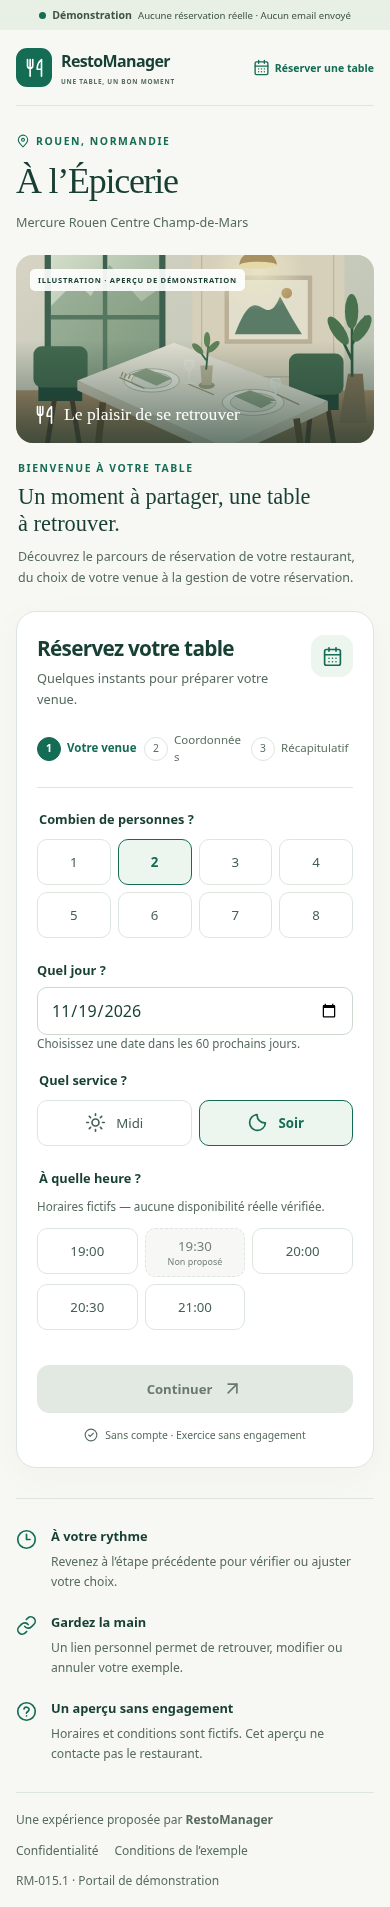
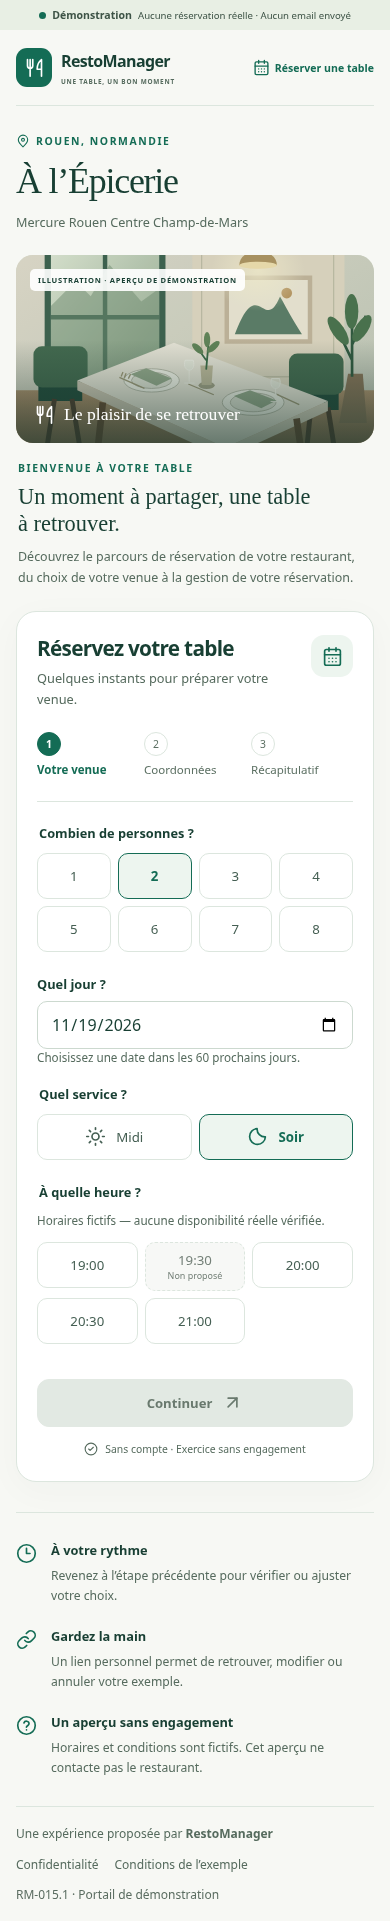
fix(rm015): polish narrow step labels and stabilize visual regression checks

diff --git a/reservation/portal.css b/reservation/portal.css
@@ -1,5 +1,5 @@
 :root{color-scheme:light;--ink:#183f33;--muted:#566b5e;--green:#146c55;--tint:#edf5ef;--line:#dce6de;--paper:#fff;--bg:#f7f8f4;--error:#a32c28;font-family:system-ui,-apple-system,BlinkMacSystemFont,"Segoe UI",sans-serif;color:var(--ink);background:var(--bg);font-synthesis:none}
-*{box-sizing:border-box}body{margin:0}button,input,textarea{font:inherit}button,a,input,textarea{touch-action:manipulation}button{cursor:pointer}button:disabled{cursor:default}button,a,input,textarea{outline-offset:4px}button:focus-visible,a:focus-visible,input:focus-visible,textarea:focus-visible{outline:3px solid #267d62}a{color:var(--green)}svg{width:21px;height:21px;flex:none;vertical-align:middle}h1,h2,h3,p{margin:0}p{line-height:1.65}button{border:0}button svg{pointer-events:none}a,button,p,h1,h2,h3,dd{overflow-wrap:anywhere}button,a{ -webkit-tap-highlight-color:transparent}small{font-size:.8rem}.wrap{width:min(1192px,calc(100% - 64px));margin-inline:auto}.sr-only{position:absolute;width:1px;height:1px;padding:0;margin:-1px;overflow:hidden;clip-path:inset(50%);white-space:nowrap}.skip{position:fixed;z-index:20;top:8px;left:12px;padding:14px;background:#fff;transform:translateY(-160%)}.skip:focus{transform:none}.demo-banner{padding:9px 20px;background:#e8efe4;color:#3d5346;display:flex;justify-content:center;align-items:center;gap:10px;font-size:.75rem;flex-wrap:wrap}.demo-dot{width:7px;height:7px;border-radius:50%;background:var(--green)}.demo-banner strong{font-weight:750}.site-header{min-height:100px;display:flex;align-items:center;justify-content:space-between;gap:20px;border-bottom:1px solid var(--line)}.brand{min-width:0;display:flex;gap:12px;align-items:center;font-size:1.15rem;font-weight:780;text-decoration:none;color:var(--ink);letter-spacing:-.04em}.brand small{display:block;letter-spacing:.14em;font-size:.5rem;margin-top:5px;font-weight:650;color:var(--muted)}.brand-mark{display:grid;place-items:center;width:43px;height:45px;border-radius:13px;background:var(--green);color:white}.header-action{min-width:0;font-size:.8rem;text-decoration:none;font-weight:650;display:flex;align-items:center;gap:9px;min-height:44px}.restaurant-intro{padding:42px 0 30px}.eyebrow{display:flex;align-items:center;gap:6px;font-size:.65rem;letter-spacing:.15em;font-weight:750;color:var(--green);text-transform:uppercase}.eyebrow svg{width:14px;height:14px}h1{font-family:Georgia,"Times New Roman",serif;font-size:clamp(2rem,4vw,3.3rem);letter-spacing:-.035em;font-weight:500;line-height:1.14;margin-top:13px}.restaurant-subtitle{font-size:.92rem;color:var(--muted);margin-top:10px}.portal-layout{display:grid;grid-template-columns:minmax(0,1.2fr) minmax(0,1fr);align-items:start;gap:42px}.cover{position:relative;border-radius:22px;overflow:hidden;background:#d8decf;isolation:isolate}.cover img{display:block;width:100%;height:auto;aspect-ratio:1.65;object-fit:cover}.cover:after{content:"";position:absolute;inset:45% 0 0;background:linear-gradient(transparent,#17362c99);z-index:0}.cover-label{position:absolute;bottom:23px;left:26px;color:#fff;display:flex;gap:9px;align-items:center;font-family:Georgia,serif;font-size:1.22rem;z-index:1}.cover-caption{position:absolute;top:14px;left:14px;font-size:.47rem;letter-spacing:.1em;font-weight:650;background:#ffffffe8;padding:6px 8px;border-radius:5px}.story-text{padding:27px 3px 0}.story-text h2{font:500 1.75rem/1.2 Georgia,serif;max-width:420px;margin:12px 0}.story-text p{font-size:.86rem;color:var(--muted);max-width:490px}.story-features{display:flex;gap:23px;margin:22px 0;font-size:.71rem;flex-wrap:wrap;color:#4d6759}.story-features span{display:flex;align-items:center;gap:8px}.story-features svg{width:17px;height:17px}.reassurance{display:flex;gap:13px;background:#ecf1e9;border-radius:16px;padding:18px;margin-top:8px}.soft-icon{border-radius:12px;display:grid;place-items:center;background:#dceade;width:40px;height:40px;flex:none}.reassurance strong{font-size:.8rem}.reassurance p{font-size:.76rem;color:var(--muted);margin-top:4px}.booking-card{border-radius:24px;background:var(--paper);border:1px solid var(--line);box-shadow:0 8px 36px #24443508;padding:30px;scroll-margin-top:20px;min-width:0}.booking-head{display:flex;justify-content:space-between;gap:12px;align-items:flex-start}.booking-head h2{font-size:1.35rem;letter-spacing:-.035em;font-weight:760;line-height:1.25}.booking-head p{color:var(--muted);font-size:.8rem;margin-top:7px}.booking-symbol{width:42px;height:42px;display:grid;place-items:center;background:var(--tint);color:var(--green);border-radius:13px;flex:none}.steps{display:flex;list-style:none;padding:0 0 22px;margin:25px 0 22px;border-bottom:1px solid var(--line);gap:8px;counter-reset:steps}.steps li{overflow-wrap:anywhere;flex:1;display:flex;gap:6px;align-items:center;color:#5c7063;font-size:.75rem;line-height:1.4;min-width:0}.steps li:before{counter-increment:steps;content:counter(steps);display:grid;place-items:center;border:1px solid var(--line);border-radius:50%;width:24px;height:24px;flex:none;font-size:.65rem}.steps [aria-current=step]{color:var(--green);font-weight:750}.steps [aria-current=step]:before{background:var(--green);border-color:var(--green);color:white}.steps .done:before{background:var(--tint);border-color:var(--tint);color:var(--green)}fieldset{border:0;padding:0;margin:0 0 23px;min-width:0}legend,.field-label{font-size:.8rem;font-weight:720;display:block;margin-bottom:11px}.label-line{display:flex;justify-content:space-between;gap:10px;align-items:baseline}.optional,.hint{color:var(--muted);font-size:.73rem;font-weight:400;line-height:1.55}.choice-row{display:grid;gap:7px;grid-template-columns:repeat(4,minmax(0,1fr))}.choice{position:relative;min-width:0}.choice input{position:absolute;width:1px;height:1px;opacity:0}.choice label{min-height:45px;border:1px solid var(--line);border-radius:10px;display:flex;justify-content:center;align-items:center;text-align:center;padding:9px 5px;font-size:.83rem;color:#455f53;cursor:pointer;gap:6px}.choice input:checked+label{background:var(--tint);border:1.5px solid var(--green);color:var(--green);font-weight:750}.choice input:focus-visible+label{outline:3px solid #267d62;outline-offset:3px}.choice input:disabled+label{background:#f7f8f6;color:#748078;cursor:default;border-style:dashed}.choice label small{font-size:.56rem;display:block}.service-row{grid-template-columns:repeat(2,minmax(0,1fr))}.service-row label{gap:10px;min-height:47px}.slots{grid-template-columns:repeat(3,minmax(0,1fr));margin:12px 0}.slots label{flex-direction:column;gap:0;padding:8px 4px}.date-field,input[type=text],input[type=email],input[type=tel],textarea{width:100%;min-width:0;border:1px solid #ccd9cf;border-radius:10px;min-height:46px;padding:11px 13px;background:#fff;color:var(--ink);font-size:1rem}input[type=date]{appearance:none;display:block}.field{margin:0 0 18px}.field .field-label{margin-bottom:8px}.field input[aria-invalid=true],.field textarea[aria-invalid=true]{border-color:var(--error)}textarea{resize:vertical;min-height:100px}.field-grid{display:grid;grid-template-columns:1fr 1fr;gap:13px}.form-note{font-size:.76rem;line-height:1.6;padding:14px;background:#f3f6ef;border-radius:11px;margin:20px 0;color:#51654e}.form-note svg{width:17px;height:17px;margin-right:6px}.primary,.secondary,.danger{display:flex;align-items:center;justify-content:center;gap:10px;min-height:48px;border-radius:12px;padding:12px 17px;font-size:.83rem;font-weight:730;text-decoration:none;width:100%}.primary{background:var(--green);color:#fff;border:1px solid var(--green)}.primary:hover{background:#0f5946}.primary:disabled{background:#e2e9e3;border-color:#e2e9e3;color:#69796e}.secondary{background:#fff;color:var(--green);border:1px solid var(--line)}.secondary:hover{background:var(--tint)}.danger{background:#fff7f4;color:var(--error);border:1px solid #e7c6bc}.text-button{color:var(--green);font-size:.76rem;font-weight:650;padding:8px 0;background:transparent;min-height:44px;text-decoration:underline;text-underline-offset:4px}.back{display:flex;align-items:center;gap:7px;text-decoration:none;margin-bottom:14px}.back svg{width:16px;height:16px}.button-stack{display:grid;gap:10px;margin-top:22px}.booking-foot{display:flex;align-items:center;justify-content:center;gap:7px;color:var(--muted);font-size:.65rem;margin-top:14px;text-align:center}.booking-foot svg{width:14px;height:14px}.empty{background:#f4f6ef;padding:18px;border-radius:12px;font-size:.8rem;color:#50644e;line-height:1.6;margin:13px 0}.summary{margin:20px 0;background:#f5f8f3;border-radius:14px;padding:17px}.summary dt{font-size:.68rem;color:var(--muted);margin-bottom:4px}.summary dd{margin:0;font-size:.88rem;font-weight:650;line-height:1.55;white-space:pre-wrap}.summary>div+div{margin-top:13px;padding-top:13px;border-top:1px solid var(--line)}.summary-row{display:block}.summary-row dt{display:flex;align-items:center;gap:8px}.summary-row dd{margin-left:26px}.summary-row svg{color:var(--green);width:18px;height:18px}.summary-email{font-weight:400;font-size:.76rem}.check{display:flex;gap:10px;align-items:flex-start;font-size:.75rem;line-height:1.6;margin:10px 0}.check input{width:19px;height:19px;flex:none;accent-color:var(--green);margin-top:3px}.check a{display:inline}.error{color:var(--error);font-size:.75rem;line-height:1.5;margin-top:6px}.error-box{padding:12px 15px;border-radius:10px;background:#fff2ee;margin:14px 0;color:var(--error);font-size:.8rem}.success-icon{display:grid;place-items:center;width:64px;height:64px;background:#e7f3e9;color:var(--green);border-radius:50%;margin-bottom:18px}.success-icon svg{width:33px;height:33px}.reference{font-size:.72rem;letter-spacing:.07em;color:var(--muted);margin:12px 0}.status-badge{display:inline-block;background:var(--tint);color:var(--green);font-size:.66rem;padding:6px 10px;border-radius:7px;font-weight:750;margin-bottom:14px}.cancelled{background:#fff1e9;color:var(--error)}.compact-story .restaurant-story{display:none}.compact-story.portal-layout{grid-template-columns:minmax(0,640px);justify-content:center}.compact-story .booking-card{padding:35px}.compact-story+.practical{display:none}.practical{display:grid;grid-template-columns:repeat(3,minmax(0,1fr));gap:45px;padding:38px 0;border-block:1px solid var(--line);margin-top:50px}.practical svg{color:var(--green);width:21px;height:21px;margin-bottom:13px}.practical h2{font-size:.8rem;margin-bottom:7px}.practical p{font-size:.76rem;color:var(--muted)}.site-footer{padding-block:28px;display:flex;align-items:center;flex-wrap:wrap;gap:8px 20px;font-size:.75rem;color:var(--muted)}.site-footer>div{display:flex;gap:16px;margin-left:auto}.site-footer button{background:transparent;color:var(--muted);font-size:.75rem;padding:10px 0;min-height:44px}.site-footer small{font-size:.75rem;flex-basis:100%;color:#5b6d61}.icon-button{width:44px;height:44px;display:grid;place-items:center;flex:none;background:var(--tint);border-radius:12px;color:var(--ink)}dialog{width:min(520px,calc(100% - 32px));max-height:calc(100dvh - 40px);border:1px solid var(--line);border-radius:22px;padding:25px;color:var(--ink);box-shadow:0 15px 70px #143c3340;overflow:auto}dialog::backdrop{background:#163b325c}.dialog-head{display:flex;align-items:center;gap:15px;justify-content:space-between;margin-bottom:18px}.dialog-head h2{font-size:1.15rem}dialog p{font-size:.85rem;color:var(--muted);margin:12px 0}dialog .primary{margin-top:20px}.noscript{background:#fff2ee;color:var(--error);padding:25px;text-align:center}
+*{box-sizing:border-box}body{margin:0}button,input,textarea{font:inherit}button,a,input,textarea{touch-action:manipulation}button{cursor:pointer}button:disabled{cursor:default}button,a,input,textarea{outline-offset:4px}button:focus-visible,a:focus-visible,input:focus-visible,textarea:focus-visible{outline:3px solid #267d62}a{color:var(--green)}svg{width:21px;height:21px;flex:none;vertical-align:middle}h1,h2,h3,p{margin:0}p{line-height:1.65}button{border:0}button svg{pointer-events:none}a,button,p,h1,h2,h3,dd{overflow-wrap:anywhere}button,a{ -webkit-tap-highlight-color:transparent}small{font-size:.8rem}.wrap{width:min(1192px,calc(100% - 64px));margin-inline:auto}.sr-only{position:absolute;width:1px;height:1px;padding:0;margin:-1px;overflow:hidden;clip-path:inset(50%);white-space:nowrap}.skip{position:fixed;z-index:20;top:8px;left:12px;padding:14px;background:#fff;transform:translateY(-160%);clip-path:inset(100%)}.skip:focus{transform:none;clip-path:none}.demo-banner{padding:9px 20px;background:#e8efe4;color:#3d5346;display:flex;justify-content:center;align-items:center;gap:10px;font-size:.75rem;flex-wrap:wrap}.demo-dot{width:7px;height:7px;border-radius:50%;background:var(--green)}.demo-banner strong{font-weight:750}.site-header{min-height:100px;display:flex;align-items:center;justify-content:space-between;gap:20px;border-bottom:1px solid var(--line)}.brand{min-width:0;display:flex;gap:12px;align-items:center;font-size:1.15rem;font-weight:780;text-decoration:none;color:var(--ink);letter-spacing:-.04em}.brand small{display:block;letter-spacing:.14em;font-size:.5rem;margin-top:5px;font-weight:650;color:var(--muted)}.brand-mark{display:grid;place-items:center;width:43px;height:45px;border-radius:13px;background:var(--green);color:white}.header-action{min-width:0;font-size:.8rem;text-decoration:none;font-weight:650;display:flex;align-items:center;gap:9px;min-height:44px}.restaurant-intro{padding:42px 0 30px}.eyebrow{display:flex;align-items:center;gap:6px;font-size:.65rem;letter-spacing:.15em;font-weight:750;color:var(--green);text-transform:uppercase}.eyebrow svg{width:14px;height:14px}h1{font-family:Georgia,"Times New Roman",serif;font-size:clamp(2rem,4vw,3.3rem);letter-spacing:-.035em;font-weight:500;line-height:1.14;margin-top:13px}.restaurant-subtitle{font-size:.92rem;color:var(--muted);margin-top:10px}.portal-layout{display:grid;grid-template-columns:minmax(0,1.2fr) minmax(0,1fr);align-items:start;gap:42px}.cover{position:relative;border-radius:22px;overflow:hidden;background:#d8decf;isolation:isolate}.cover img{display:block;width:100%;height:auto;aspect-ratio:1.65;object-fit:cover}.cover:after{content:"";position:absolute;inset:45% 0 0;background:linear-gradient(transparent,#17362c99);z-index:0}.cover-label{position:absolute;bottom:23px;left:26px;color:#fff;display:flex;gap:9px;align-items:center;font-family:Georgia,serif;font-size:1.22rem;z-index:1}.cover-caption{position:absolute;top:14px;left:14px;font-size:.47rem;letter-spacing:.1em;font-weight:650;background:#ffffffe8;padding:6px 8px;border-radius:5px}.story-text{padding:27px 3px 0}.story-text h2{font:500 1.75rem/1.2 Georgia,serif;max-width:420px;margin:12px 0}.story-text p{font-size:.86rem;color:var(--muted);max-width:490px}.story-features{display:flex;gap:23px;margin:22px 0;font-size:.71rem;flex-wrap:wrap;color:#4d6759}.story-features span{display:flex;align-items:center;gap:8px}.story-features svg{width:17px;height:17px}.reassurance{display:flex;gap:13px;background:#ecf1e9;border-radius:16px;padding:18px;margin-top:8px}.soft-icon{border-radius:12px;display:grid;place-items:center;background:#dceade;width:40px;height:40px;flex:none}.reassurance strong{font-size:.8rem}.reassurance p{font-size:.76rem;color:var(--muted);margin-top:4px}.booking-card{border-radius:24px;background:var(--paper);border:1px solid var(--line);box-shadow:0 8px 36px #24443508;padding:30px;scroll-margin-top:20px;min-width:0}.booking-head{display:flex;justify-content:space-between;gap:12px;align-items:flex-start}.booking-head h2{font-size:1.35rem;letter-spacing:-.035em;font-weight:760;line-height:1.25}.booking-head p{color:var(--muted);font-size:.8rem;margin-top:7px}.booking-symbol{width:42px;height:42px;display:grid;place-items:center;background:var(--tint);color:var(--green);border-radius:13px;flex:none}.steps{display:flex;list-style:none;padding:0 0 22px;margin:25px 0 22px;border-bottom:1px solid var(--line);gap:8px;counter-reset:steps}.steps li{overflow-wrap:anywhere;flex:1;display:flex;gap:6px;align-items:center;color:#5c7063;font-size:.75rem;line-height:1.4;min-width:0}.steps li:before{counter-increment:steps;content:counter(steps);display:grid;place-items:center;border:1px solid var(--line);border-radius:50%;width:24px;height:24px;flex:none;font-size:.65rem}.steps [aria-current=step]{color:var(--green);font-weight:750}.steps [aria-current=step]:before{background:var(--green);border-color:var(--green);color:white}.steps .done:before{background:var(--tint);border-color:var(--tint);color:var(--green)}fieldset{border:0;padding:0;margin:0 0 23px;min-width:0}legend,.field-label{font-size:.8rem;font-weight:720;display:block;margin-bottom:11px}.label-line{display:flex;justify-content:space-between;gap:10px;align-items:baseline}.optional,.hint{color:var(--muted);font-size:.73rem;font-weight:400;line-height:1.55}.choice-row{display:grid;gap:7px;grid-template-columns:repeat(4,minmax(0,1fr))}.choice{position:relative;min-width:0}.choice input{position:absolute;width:1px;height:1px;opacity:0}.choice label{min-height:45px;border:1px solid var(--line);border-radius:10px;display:flex;justify-content:center;align-items:center;text-align:center;padding:9px 5px;font-size:.83rem;color:#455f53;cursor:pointer;gap:6px}.choice input:checked+label{background:var(--tint);border:1.5px solid var(--green);color:var(--green);font-weight:750}.choice input:focus-visible+label{outline:3px solid #267d62;outline-offset:3px}.choice input:disabled+label{background:#f7f8f6;color:#748078;cursor:default;border-style:dashed}.choice label small{font-size:.56rem;display:block}.service-row{grid-template-columns:repeat(2,minmax(0,1fr))}.service-row label{gap:10px;min-height:47px}.slots{grid-template-columns:repeat(3,minmax(0,1fr));margin:12px 0}.slots label{flex-direction:column;gap:0;padding:8px 4px}.date-field,input[type=text],input[type=email],input[type=tel],textarea{width:100%;min-width:0;border:1px solid #ccd9cf;border-radius:10px;min-height:46px;padding:11px 13px;background:#fff;color:var(--ink);font-size:1rem}input[type=date]{appearance:none;display:block}.field{margin:0 0 18px}.field .field-label{margin-bottom:8px}.field input[aria-invalid=true],.field textarea[aria-invalid=true]{border-color:var(--error)}textarea{resize:vertical;min-height:100px}.field-grid{display:grid;grid-template-columns:1fr 1fr;gap:13px}.form-note{font-size:.76rem;line-height:1.6;padding:14px;background:#f3f6ef;border-radius:11px;margin:20px 0;color:#51654e}.form-note svg{width:17px;height:17px;margin-right:6px}.primary,.secondary,.danger{display:flex;align-items:center;justify-content:center;gap:10px;min-height:48px;border-radius:12px;padding:12px 17px;font-size:.83rem;font-weight:730;text-decoration:none;width:100%}.primary{background:var(--green);color:#fff;border:1px solid var(--green)}.primary:hover{background:#0f5946}.primary:disabled{background:#e2e9e3;border-color:#e2e9e3;color:#69796e}.secondary{background:#fff;color:var(--green);border:1px solid var(--line)}.secondary:hover{background:var(--tint)}.danger{background:#fff7f4;color:var(--error);border:1px solid #e7c6bc}.text-button{color:var(--green);font-size:.76rem;font-weight:650;padding:8px 0;background:transparent;min-height:44px;text-decoration:underline;text-underline-offset:4px}.back{display:flex;align-items:center;gap:7px;text-decoration:none;margin-bottom:14px}.back svg{width:16px;height:16px}.button-stack{display:grid;gap:10px;margin-top:22px}.booking-foot{display:flex;align-items:center;justify-content:center;gap:7px;color:var(--muted);font-size:.65rem;margin-top:14px;text-align:center}.booking-foot svg{width:14px;height:14px}.empty{background:#f4f6ef;padding:18px;border-radius:12px;font-size:.8rem;color:#50644e;line-height:1.6;margin:13px 0}.summary{margin:20px 0;background:#f5f8f3;border-radius:14px;padding:17px}.summary dt{font-size:.68rem;color:var(--muted);margin-bottom:4px}.summary dd{margin:0;font-size:.88rem;font-weight:650;line-height:1.55;white-space:pre-wrap}.summary>div+div{margin-top:13px;padding-top:13px;border-top:1px solid var(--line)}.summary-row{display:block}.summary-row dt{display:flex;align-items:center;gap:8px}.summary-row dd{margin-left:26px}.summary-row svg{color:var(--green);width:18px;height:18px}.summary-email{font-weight:400;font-size:.76rem}.check{display:flex;gap:10px;align-items:flex-start;font-size:.75rem;line-height:1.6;margin:10px 0}.check input{width:19px;height:19px;flex:none;accent-color:var(--green);margin-top:3px}.check a{display:inline}.error{color:var(--error);font-size:.75rem;line-height:1.5;margin-top:6px}.error-box{padding:12px 15px;border-radius:10px;background:#fff2ee;margin:14px 0;color:var(--error);font-size:.8rem}.success-icon{display:grid;place-items:center;width:64px;height:64px;background:#e7f3e9;color:var(--green);border-radius:50%;margin-bottom:18px}.success-icon svg{width:33px;height:33px}.reference{font-size:.72rem;letter-spacing:.07em;color:var(--muted);margin:12px 0}.status-badge{display:inline-block;background:var(--tint);color:var(--green);font-size:.66rem;padding:6px 10px;border-radius:7px;font-weight:750;margin-bottom:14px}.cancelled{background:#fff1e9;color:var(--error)}.compact-story .restaurant-story{display:none}.compact-story.portal-layout{grid-template-columns:minmax(0,640px);justify-content:center}.compact-story .booking-card{padding:35px}.compact-story+.practical{display:none}.practical{display:grid;grid-template-columns:repeat(3,minmax(0,1fr));gap:45px;padding:38px 0;border-block:1px solid var(--line);margin-top:50px}.practical svg{color:var(--green);width:21px;height:21px;margin-bottom:13px}.practical h2{font-size:.8rem;margin-bottom:7px}.practical p{font-size:.76rem;color:var(--muted)}.site-footer{padding-block:28px;display:flex;align-items:center;flex-wrap:wrap;gap:8px 20px;font-size:.75rem;color:var(--muted)}.site-footer>div{display:flex;gap:16px;margin-left:auto}.site-footer button{background:transparent;color:var(--muted);font-size:.75rem;padding:10px 0;min-height:44px}.site-footer small{font-size:.75rem;flex-basis:100%;color:#5b6d61}.icon-button{width:44px;height:44px;display:grid;place-items:center;flex:none;background:var(--tint);border-radius:12px;color:var(--ink)}dialog{width:min(520px,calc(100% - 32px));max-height:calc(100dvh - 40px);border:1px solid var(--line);border-radius:22px;padding:25px;color:var(--ink);box-shadow:0 15px 70px #143c3340;overflow:auto}dialog::backdrop{background:#163b325c}.dialog-head{display:flex;align-items:center;gap:15px;justify-content:space-between;margin-bottom:18px}.dialog-head h2{font-size:1.15rem}dialog p{font-size:.85rem;color:var(--muted);margin:12px 0}dialog .primary{margin-top:20px}.noscript{background:#fff2ee;color:var(--error);padding:25px;text-align:center}
 @media(min-width:1600px){.wrap{width:min(1280px,calc(100% - 96px))}.portal-layout{gap:60px}.cover img{aspect-ratio:1.5}.restaurant-intro{padding-top:52px}}
 @media(max-width:1023px){.wrap{width:calc(100% - 48px)}.portal-layout{gap:25px;grid-template-columns:minmax(0,1fr) minmax(0,1fr)}.booking-card{padding:23px}.cover img{aspect-ratio:1.1}.cover-label{left:18px;right:15px;font-size:1.05rem}.story-features{gap:13px}.steps{gap:5px}.steps li{font-size:.72rem}.steps li:before{width:22px;height:22px}.choice-row{gap:5px}.practical{gap:25px}.site-header{min-height:86px}}
 @media(max-width:699px){.wrap{width:calc(100% - 32px)}.demo-banner{font-size:.66rem;gap:6px;padding:8px 14px}.demo-banner>span:last-child{font-size:.6rem}.site-header{min-height:76px;gap:12px}.brand{font-size:1rem;gap:9px}.brand-mark{width:36px;height:39px;border-radius:11px}.brand small{font-size:.4rem;letter-spacing:.12em}.header-action{min-width:0;font-size:.66rem;gap:5px}.header-action svg{width:17px;height:17px}.restaurant-intro{padding:28px 0 22px}h1{font-size:2.25rem}.restaurant-subtitle{font-size:.79rem;max-width:290px}.portal-layout{grid-template-columns:minmax(0,1fr);gap:23px}.cover{border-radius:17px}.cover img{aspect-ratio:1.9}.cover-label{font-size:1.1rem;bottom:18px}.story-text{padding:18px 2px 0}.story-text h2{font-size:1.4rem;max-width:300px;margin:9px 0}.story-text p{font-size:.78rem}.story-features{display:none}.reassurance{display:none}.booking-card,.compact-story .booking-card{padding:23px 20px;border-radius:20px}.booking-head h2{font-size:1.3rem}.steps{margin-top:22px}.steps li{font-size:.72rem}.choice label{min-height:46px}.choice-row{gap:7px}.field-grid{grid-template-columns:1fr;gap:0}.practical{grid-template-columns:1fr;gap:21px;padding:28px 0;margin-top:30px}.practical>div{display:grid;grid-template-columns:27px 1fr;gap:0 8px}.practical svg{grid-row:1/3;margin-top:2px}.practical p{grid-column:2}.site-footer{padding-block:18px;gap:0}.site-footer>div{margin-left:0;width:100%}.compact-story.portal-layout{display:block}.compact-story .booking-card{min-width:0}.optional{font-size:.66rem}.label-line{gap:6px}.primary,.secondary,.danger{font-size:.82rem}}
@@ -7,3 +7,5 @@
 @media(forced-colors:active){.choice input:checked+label{outline:2px solid Highlight}.primary{border:1px solid ButtonText}.cover-label{background:Canvas;color:CanvasText}.demo-dot{border:2px solid CanvasText}}
 
 .brand>span:last-child{min-width:0}
+
+@media(max-width:1023px){.steps li{flex-direction:column;align-items:flex-start;gap:6px}}

diff --git a/docs/audits/RM0151_PUBLIC_PORTAL_20261118.md b/docs/audits/RM0151_PUBLIC_PORTAL_20261118.md
@@ -34,6 +34,8 @@ La maquette annoncée n’a pas été reçue et n’est pas présente dans l’i
 
 Corrections révélées par les vérifications : contraste des textes secondaires et étapes, structure sémantique de la liste récapitulative, cycle clavier du dialogue, débordement avec texte doublé, et frontière du secours hors connexion. Aucun test n’utilise de vraies données ou identités salariées.
 
+La CI historique RM-016 a également révélé une assertion exécutée pendant la transition asynchrone d’un repère du didacticiel. La vérification attend maintenant l’attachement du repère (délai borné de cinq secondes), puis exige toujours exactement un repère. Aucun comportement du didacticiel n’est modifié, et l’absence réelle du bouton continue de faire échouer le test.
+
 ## Fichiers concernés
 
 | Groupe | Rôle |
@@ -43,6 +45,7 @@ Corrections révélées par les vérifications : contraste des textes secondaire
 | `sw.js` | Exclusion explicite du chemin public des caches, du secours et des vérifications de mise à jour salariés |
 | `scripts/build-public-demo.cjs`, `.gitignore` | Artefact de publication séparé, non activé en production |
 | `tests/rm015-public.test.cjs`, `tests/browser/rm015-public.cjs` | Tests de contrat/sécurité et parcours visuels |
+| `tests/browser/rm016-learning.cjs` | Attente du repère effectivement rendu avant l’assertion de non-régression |
 | `package.json`, `package-lock.json` | Commandes de validation et axe-core 4.10.3, uniquement dépendance de test ; versions Supabase/Playwright inchangées |
 | `.github/workflows/rm015-public-demo.yml` | Recette isolée et artefacts, PR vers DEV uniquement |
 | `docs/audits/RM0151_*`, preuves, `docs/RELEASE_TRACKER.md` | Architecture, résultats, captures, QR de recette et suivi de livraison |
